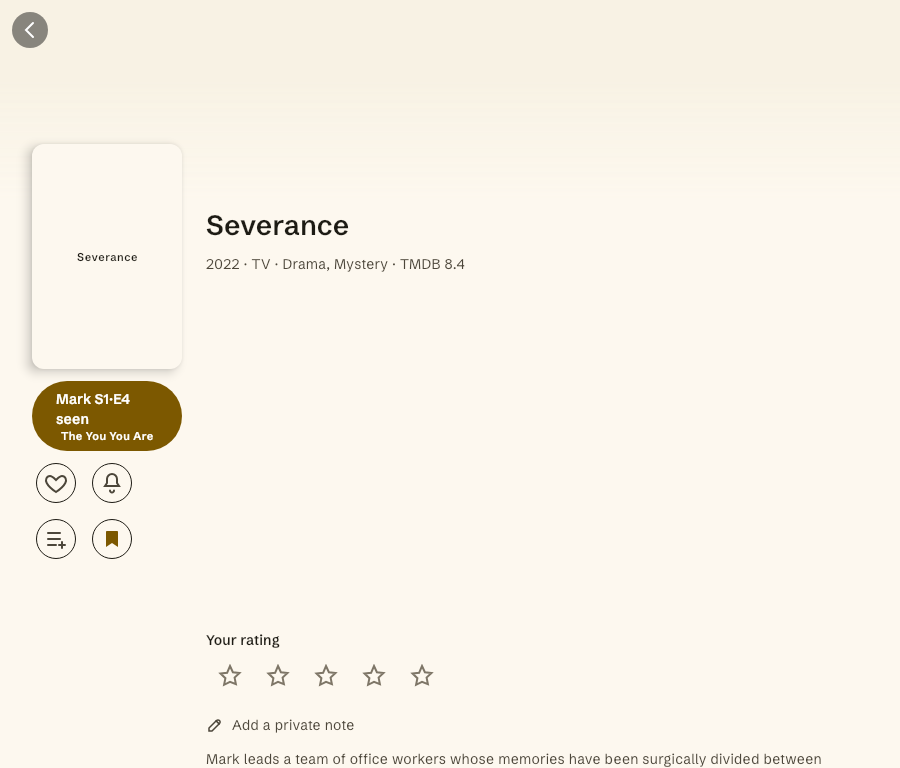
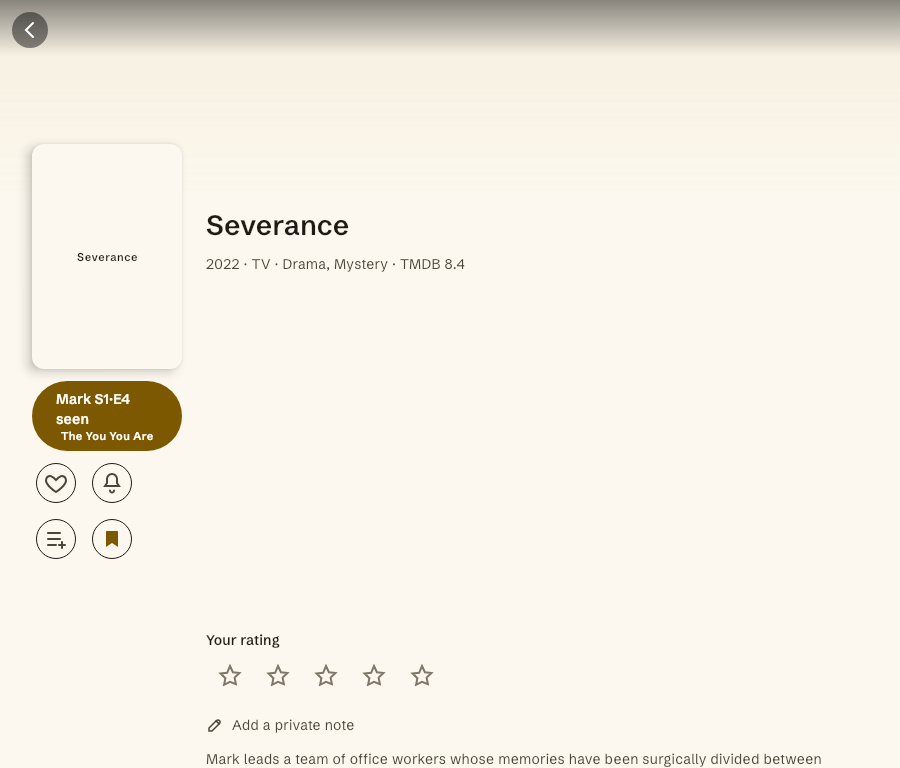
fix(detail): draw the hero under the status bar
The shared root applies the top safe-area inset to every route, so Detail's
backdrop started below the status bar and the band above it showed the theme
background (a black strip in dark theme on a Pixel 9 Pro).

ScreenInsets gains `immersive`, set by MuvissApp for Detail and Episode Detail.
Those screens now own their top inset: the backdrop/still grows by it, a top
scrim keeps the icons legible, loading/error states pad themselves, and a new
LightStatusBarIcons expect/actual forces light status icons on Android.

Changed region(s): [[0.0, 0.0, 1.0, 0.0625]]

diff --git a/feature/search/ui/src/commonMain/kotlin/com/codingpit/muviss/feature/search/ui/EpisodeDetailScreen.kt b/feature/search/ui/src/commonMain/kotlin/com/codingpit/muviss/feature/search/ui/EpisodeDetailScreen.kt
@@ -3,12 +3,19 @@ package com.codingpit.muviss.feature.search.ui
 import androidx.compose.foundation.background
 import androidx.compose.foundation.layout.Arrangement
 import androidx.compose.foundation.layout.Box
+import androidx.compose.foundation.layout.BoxWithConstraints
 import androidx.compose.foundation.layout.Column
 import androidx.compose.foundation.layout.Row
+import androidx.compose.foundation.layout.WindowInsets
+import androidx.compose.foundation.layout.WindowInsetsSides
+import androidx.compose.foundation.layout.asPaddingValues
 import androidx.compose.foundation.layout.aspectRatio
 import androidx.compose.foundation.layout.fillMaxSize
 import androidx.compose.foundation.layout.fillMaxWidth
+import androidx.compose.foundation.layout.height
+import androidx.compose.foundation.layout.only
 import androidx.compose.foundation.layout.padding
+import androidx.compose.foundation.layout.safeDrawing
 import androidx.compose.foundation.layout.size
 import androidx.compose.foundation.layout.statusBarsPadding
 import androidx.compose.foundation.layout.width
@@ -34,8 +41,11 @@ import androidx.compose.runtime.setValue
 import androidx.compose.ui.Alignment
 import androidx.compose.ui.Modifier
 import androidx.compose.ui.draw.clip
+import androidx.compose.ui.graphics.Brush
+import androidx.compose.ui.graphics.Color
 import androidx.compose.ui.text.style.TextAlign
 import androidx.compose.ui.text.style.TextOverflow
+import androidx.compose.ui.unit.Dp
 import androidx.compose.ui.unit.dp
 import androidx.lifecycle.compose.collectAsStateWithLifecycle
 import com.codingpit.muviss.core.designsystem.component.CarouselHeader
@@ -43,6 +53,7 @@ import com.codingpit.muviss.core.designsystem.component.ErrorState
 import com.codingpit.muviss.core.designsystem.component.PosterImage
 import com.codingpit.muviss.core.designsystem.component.PosterSize
 import com.codingpit.muviss.core.designsystem.icon.MuvissIcons
+import com.codingpit.muviss.core.designsystem.layout.LightStatusBarIcons
 import com.codingpit.muviss.core.designsystem.text.dateText
 import com.codingpit.muviss.core.designsystem.theme.MuvissSpacing
 import com.codingpit.muviss.feature.search.ui.generated.resources.Res
@@ -83,14 +94,16 @@ fun EpisodeDetailScreen(
     val state by viewModel.state.collectAsStateWithLifecycle()
     var confirmClear by remember { mutableStateOf(false) }
 
+    LightStatusBarIcons()
+
     Box(Modifier.fillMaxSize()) {
         when {
-            state.loading -> CircularProgressIndicator(Modifier.align(Alignment.Center).padding(MuvissSpacing.xl))
+            state.loading -> CircularProgressIndicator(Modifier.align(Alignment.Center).statusBarsPadding().padding(MuvissSpacing.xl))
 
             state.error != null -> ErrorState(
                 message = state.error!!,
                 onRetry = viewModel::load,
-                modifier = Modifier.align(Alignment.Center),
+                modifier = Modifier.align(Alignment.Center).statusBarsPadding(),
             )
 
             state.details != null -> EpisodeBody(
@@ -158,9 +171,28 @@ private fun EpisodeBody(
 }
 
 @Composable
-private fun EpisodeStill(details: EpisodeDetails) {
-    Box(Modifier.fillMaxWidth().aspectRatio(16f / 9f).background(MaterialTheme.colorScheme.surfaceContainerLow)) {
-        PosterImage(url = details.stillUrl, title = details.name, modifier = Modifier.fillMaxSize())
+private fun EpisodeStill(
+    details: EpisodeDetails,
+    // The still draws under the status bar (the route is immersive), so it grows by the inset.
+    // A parameter because Skiko reports zero insets: tests pass a synthetic value.
+    topInset: Dp = WindowInsets.safeDrawing.only(WindowInsetsSides.Top).asPaddingValues().calculateTopPadding(),
+) {
+    BoxWithConstraints(Modifier.fillMaxWidth()) {
+        Box(
+            Modifier
+                .fillMaxWidth()
+                .height(maxWidth * 9f / 16f + topInset)
+                .background(MaterialTheme.colorScheme.surfaceContainerLow),
+        ) {
+            PosterImage(url = details.stillUrl, title = details.name, modifier = Modifier.fillMaxSize())
+            // Keeps the status icons legible over any artwork, light or dark.
+            Box(
+                Modifier
+                    .fillMaxWidth()
+                    .height(topInset + 56.dp)
+                    .background(Brush.verticalGradient(0f to Color.Black.copy(alpha = 0.45f), 1f to Color.Transparent)),
+            )
+        }
     }
 }
 

diff --git a/feature/search/ui/src/commonMain/kotlin/com/codingpit/muviss/feature/search/ui/DetailScreen.kt b/feature/search/ui/src/commonMain/kotlin/com/codingpit/muviss/feature/search/ui/DetailScreen.kt
@@ -25,12 +25,17 @@ import androidx.compose.foundation.layout.FlowRow
 import androidx.compose.foundation.layout.PaddingValues
 import androidx.compose.foundation.layout.Row
 import androidx.compose.foundation.layout.Spacer
+import androidx.compose.foundation.layout.WindowInsets
+import androidx.compose.foundation.layout.WindowInsetsSides
+import androidx.compose.foundation.layout.asPaddingValues
 import androidx.compose.foundation.layout.aspectRatio
 import androidx.compose.foundation.layout.fillMaxSize
 import androidx.compose.foundation.layout.fillMaxWidth
 import androidx.compose.foundation.layout.height
 import androidx.compose.foundation.layout.offset
+import androidx.compose.foundation.layout.only
 import androidx.compose.foundation.layout.padding
+import androidx.compose.foundation.layout.safeDrawing
 import androidx.compose.foundation.layout.size
 import androidx.compose.foundation.layout.statusBarsPadding
 import androidx.compose.foundation.layout.width
@@ -108,6 +113,7 @@ import com.codingpit.muviss.core.designsystem.component.WhatsNextButton
 import com.codingpit.muviss.core.designsystem.component.measureSnackbarHeight
 import com.codingpit.muviss.core.designsystem.component.rememberSnackbarClearance
 import com.codingpit.muviss.core.designsystem.icon.MuvissIcons
+import com.codingpit.muviss.core.designsystem.layout.LightStatusBarIcons
 import com.codingpit.muviss.core.designsystem.text.UiText
 import com.codingpit.muviss.core.designsystem.text.dateText
 import com.codingpit.muviss.core.designsystem.text.resolve
@@ -217,16 +223,18 @@ fun DetailScreen(
         if (result == SnackbarResult.ActionPerformed) viewModel.undoBulkMark(undo) else viewModel.dismissUndo(undo)
     }
 
+    LightStatusBarIcons()
+
     Box(Modifier.fillMaxSize()) {
         when {
             state.loading -> CircularProgressIndicator(
-                Modifier.align(Alignment.Center).padding(MuvissSpacing.xl),
+                Modifier.align(Alignment.Center).statusBarsPadding().padding(MuvissSpacing.xl),
             )
 
             state.error != null -> ErrorState(
                 message = state.error!!,
                 onRetry = viewModel::load,
-                modifier = Modifier.align(Alignment.Center),
+                modifier = Modifier.align(Alignment.Center).statusBarsPadding(),
             )
 
             state.details != null -> BoxWithConstraints {
@@ -512,9 +520,15 @@ private fun LazyListScope.detailBody(context: DetailListContext, inset: Modifier
 
 /** 16:9 backdrop with a gradient into the background color. */
 @Composable
-private fun DetailBackdrop(details: MediaDetails, height: androidx.compose.ui.unit.Dp) {
+private fun DetailBackdrop(
+    details: MediaDetails,
+    height: androidx.compose.ui.unit.Dp,
+    // The hero draws under the status bar (the route is immersive), so it grows by the inset.
+    // A parameter because Skiko reports zero insets: tests pass a synthetic value.
+    topInset: androidx.compose.ui.unit.Dp = WindowInsets.safeDrawing.only(WindowInsetsSides.Top).asPaddingValues().calculateTopPadding(),
+) {
     val background = MaterialTheme.colorScheme.background
-    Box(Modifier.fillMaxWidth().height(height)) {
+    Box(Modifier.fillMaxWidth().height(height + topInset)) {
         if (details.backdropUrl != null) {
             AsyncImage(
                 model = details.backdropUrl,
@@ -529,6 +543,13 @@ private fun DetailBackdrop(details: MediaDetails, height: androidx.compose.ui.un
             Modifier
                 .fillMaxSize()
                 .background(Brush.verticalGradient(0.4f to Color.Transparent, 1f to background)),
+        )
+        // Keeps the status icons legible over any artwork, light or dark.
+        Box(
+            Modifier
+                .fillMaxWidth()
+                .height(topInset + 56.dp)
+                .background(Brush.verticalGradient(0f to Color.Black.copy(alpha = 0.45f), 1f to Color.Transparent)),
         )
     }
 }

diff --git a/app/shared/src/commonMain/kotlin/com/codingpit/muviss/MuvissApp.kt b/app/shared/src/commonMain/kotlin/com/codingpit/muviss/MuvissApp.kt
@@ -10,6 +10,7 @@ import androidx.compose.foundation.isSystemInDarkTheme
 import androidx.compose.foundation.layout.Box
 import androidx.compose.foundation.layout.Column
 import androidx.compose.foundation.layout.fillMaxSize
+import androidx.compose.foundation.layout.statusBarsPadding
 import androidx.compose.material3.MaterialTheme
 import androidx.compose.material3.NavigationBarItemDefaults
 import androidx.compose.material3.NavigationRailItemDefaults
@@ -76,6 +77,7 @@ import com.codingpit.muviss.feature.onboarding.ui.onboardingSection
 import com.codingpit.muviss.feature.profile.ui.profileSection
 import com.codingpit.muviss.feature.progress.ui.progressSection
 import com.codingpit.muviss.feature.search.ui.DetailRoute
+import com.codingpit.muviss.feature.search.ui.EpisodeDetailRoute
 import com.codingpit.muviss.feature.search.ui.SearchRoute
 import com.codingpit.muviss.feature.search.ui.searchSection
 import com.codingpit.muviss.feature.settings.api.SettingsApi
@@ -445,11 +447,15 @@ private fun MuvissScaffold(
         // without this every screen not built on an M3 Scaffold draws its first
         // pixel under the status bar and camera cutout. One wrap fixes all of
         // them, on every platform.
-        ScreenInsets {
+        val immersive = currentDestination?.let {
+            it.hasRoute(DetailRoute::class) || it.hasRoute(EpisodeDetailRoute::class)
+        } == true
+        ScreenInsets(immersive = immersive) {
             Column {
                 val persistence = koinInject<PersistenceStatus>()
                 val warning = rememberPersistenceWarning(persistence)
                 PersistenceBanner(
+                    modifier = if (immersive) Modifier.statusBarsPadding() else Modifier,
                     message = warning?.message,
                     actionLabel = warning?.actionLabel,
                     onAction = persistence::reloadPage,

diff --git a/core/designsystem/src/androidMain/kotlin/com/codingpit/muviss/core/designsystem/layout/LightStatusBarIcons.android.kt b/core/designsystem/src/androidMain/kotlin/com/codingpit/muviss/core/designsystem/layout/LightStatusBarIcons.android.kt
@@ -1,0 +1,39 @@
+package com.codingpit.muviss.core.designsystem.layout
+
+import android.app.Activity
+import android.content.Context
+import android.content.ContextWrapper
+import android.os.Build
+import android.view.View
+import android.view.WindowInsetsController
+import androidx.compose.runtime.Composable
+import androidx.compose.runtime.DisposableEffect
+import androidx.compose.ui.platform.LocalContext
+
+@Composable
+actual fun LightStatusBarIcons() {
+    val window = LocalContext.current.findActivity()?.window ?: return
+    DisposableEffect(window) {
+        val decor = window.decorView
+        if (Build.VERSION.SDK_INT >= Build.VERSION_CODES.R) {
+            val controller = window.insetsController
+            val previous = controller?.systemBarsAppearance ?: 0
+            val wasLight = previous and WindowInsetsController.APPEARANCE_LIGHT_STATUS_BARS
+            controller?.setSystemBarsAppearance(0, WindowInsetsController.APPEARANCE_LIGHT_STATUS_BARS)
+            onDispose { controller?.setSystemBarsAppearance(wasLight, WindowInsetsController.APPEARANCE_LIGHT_STATUS_BARS) }
+        } else {
+            @Suppress("DEPRECATION")
+            val previous = decor.systemUiVisibility
+            @Suppress("DEPRECATION")
+            decor.systemUiVisibility = previous and View.SYSTEM_UI_FLAG_LIGHT_STATUS_BAR.inv()
+            @Suppress("DEPRECATION")
+            onDispose { decor.systemUiVisibility = previous }
+        }
+    }
+}
+
+private tailrec fun Context.findActivity(): Activity? = when (this) {
+    is Activity -> this
+    is ContextWrapper -> baseContext.findActivity()
+    else -> null
+}

diff --git a/core/designsystem/src/commonMain/kotlin/com/codingpit/muviss/core/designsystem/layout/ScreenInsets.kt b/core/designsystem/src/commonMain/kotlin/com/codingpit/muviss/core/designsystem/layout/ScreenInsets.kt
@@ -29,6 +29,11 @@ import androidx.compose.ui.Modifier
  * `Scaffold` sees what is left rather than padding the same band a second time.
  * No explicit `consumeWindowInsets` is needed.
  *
+ * [immersive] leaves the top alone for a screen whose hero artwork draws under the status bar
+ * (Detail, Episode Detail). Such a screen owns its top inset: it grows the image by it and pads
+ * its own controls. Without this the band above the image shows the theme background, which
+ * reads as a black bar in dark theme.
+ *
  * [insets] is a parameter rather than a hard-coded read because Skiko — the
  * renderer behind `runComposeUiTest` — reports zero insets, so this would be
  * untestable off-device otherwise. Tests pass a synthetic value; production
@@ -36,10 +41,12 @@ import androidx.compose.ui.Modifier
  */
 @Composable
 fun ScreenInsets(
+    immersive: Boolean = false,
     insets: WindowInsets = WindowInsets.safeDrawing.only(WindowInsetsSides.Top + WindowInsetsSides.Horizontal),
     content: @Composable () -> Unit,
 ) {
-    Box(Modifier.windowInsetsPadding(insets)) {
+    val applied = if (immersive) insets.only(WindowInsetsSides.Horizontal) else insets
+    Box(Modifier.windowInsetsPadding(applied)) {
         content()
     }
 }

diff --git a/core/designsystem/src/jvmTest/kotlin/com/codingpit/muviss/core/designsystem/layout/ScreenInsetsTest.kt b/core/designsystem/src/jvmTest/kotlin/com/codingpit/muviss/core/designsystem/layout/ScreenInsetsTest.kt
@@ -38,6 +38,29 @@ class ScreenInsetsTest {
     }
 
     @Test
+    fun an_immersive_screen_keeps_the_top_for_itself() = runComposeUiTest {
+        setContent {
+            ScreenInsets(immersive = true, insets = TestSafeAreaInsets) {
+                Box(Modifier.testTag(CONTENT).fillMaxSize())
+            }
+        }
+
+        onNodeWithTag(CONTENT).assertTopPositionInRootIsEqualTo(0.dp)
+    }
+
+    @Test
+    fun an_immersive_screen_still_clears_the_sides() = runComposeUiTest {
+        setContent {
+            ScreenInsets(immersive = true, insets = WindowInsets(left = 20.dp, top = 48.dp, right = 20.dp, bottom = 0.dp)) {
+                Box(Modifier.testTag(CONTENT).fillMaxSize())
+            }
+        }
+
+        onNodeWithTag(CONTENT).assertLeftPositionInRootIsEqualTo(20.dp)
+        onNodeWithTag(CONTENT).assertTopPositionInRootIsEqualTo(0.dp)
+    }
+
+    @Test
     fun horizontal_insets_are_applied_too() = runComposeUiTest {
         setContent {
             ScreenInsets(insets = WindowInsets(left = 20.dp, top = 0.dp, right = 20.dp, bottom = 0.dp)) {

diff --git a/core/designsystem/src/commonMain/kotlin/com/codingpit/muviss/core/designsystem/layout/LightStatusBarIcons.kt b/core/designsystem/src/commonMain/kotlin/com/codingpit/muviss/core/designsystem/layout/LightStatusBarIcons.kt
@@ -1,0 +1,14 @@
+package com.codingpit.muviss.core.designsystem.layout
+
+import androidx.compose.runtime.Composable
+
+/**
+ * Draws the status bar's icons light for as long as this is in the composition.
+ *
+ * For a screen whose artwork runs under the status bar (Detail, Episode Detail): the icons
+ * otherwise follow the *system* theme, so a light-theme phone paints dark icons onto a dark
+ * scrim. The previous appearance is restored on leaving. Only Android has anything to set;
+ * every other target's actual is a no-op.
+ */
+@Composable
+expect fun LightStatusBarIcons()

diff --git a/core/designsystem/src/iosMain/kotlin/com/codingpit/muviss/core/designsystem/layout/LightStatusBarIcons.ios.kt b/core/designsystem/src/iosMain/kotlin/com/codingpit/muviss/core/designsystem/layout/LightStatusBarIcons.ios.kt
@@ -1,0 +1,7 @@
+package com.codingpit.muviss.core.designsystem.layout
+
+import androidx.compose.runtime.Composable
+
+/** No status bar to restyle here. */
+@Composable
+actual fun LightStatusBarIcons() = Unit

diff --git a/core/designsystem/src/jsMain/kotlin/com/codingpit/muviss/core/designsystem/layout/LightStatusBarIcons.js.kt b/core/designsystem/src/jsMain/kotlin/com/codingpit/muviss/core/designsystem/layout/LightStatusBarIcons.js.kt
@@ -1,0 +1,7 @@
+package com.codingpit.muviss.core.designsystem.layout
+
+import androidx.compose.runtime.Composable
+
+/** No status bar to restyle here. */
+@Composable
+actual fun LightStatusBarIcons() = Unit

diff --git a/core/designsystem/src/jvmMain/kotlin/com/codingpit/muviss/core/designsystem/layout/LightStatusBarIcons.jvm.kt b/core/designsystem/src/jvmMain/kotlin/com/codingpit/muviss/core/designsystem/layout/LightStatusBarIcons.jvm.kt
@@ -1,0 +1,7 @@
+package com.codingpit.muviss.core.designsystem.layout
+
+import androidx.compose.runtime.Composable
+
+/** No status bar to restyle here. */
+@Composable
+actual fun LightStatusBarIcons() = Unit

diff --git a/core/designsystem/src/wasmJsMain/kotlin/com/codingpit/muviss/core/designsystem/layout/LightStatusBarIcons.wasmJs.kt b/core/designsystem/src/wasmJsMain/kotlin/com/codingpit/muviss/core/designsystem/layout/LightStatusBarIcons.wasmJs.kt
@@ -1,0 +1,7 @@
+package com.codingpit.muviss.core.designsystem.layout
+
+import androidx.compose.runtime.Composable
+
+/** No status bar to restyle here. */
+@Composable
+actual fun LightStatusBarIcons() = Unit
